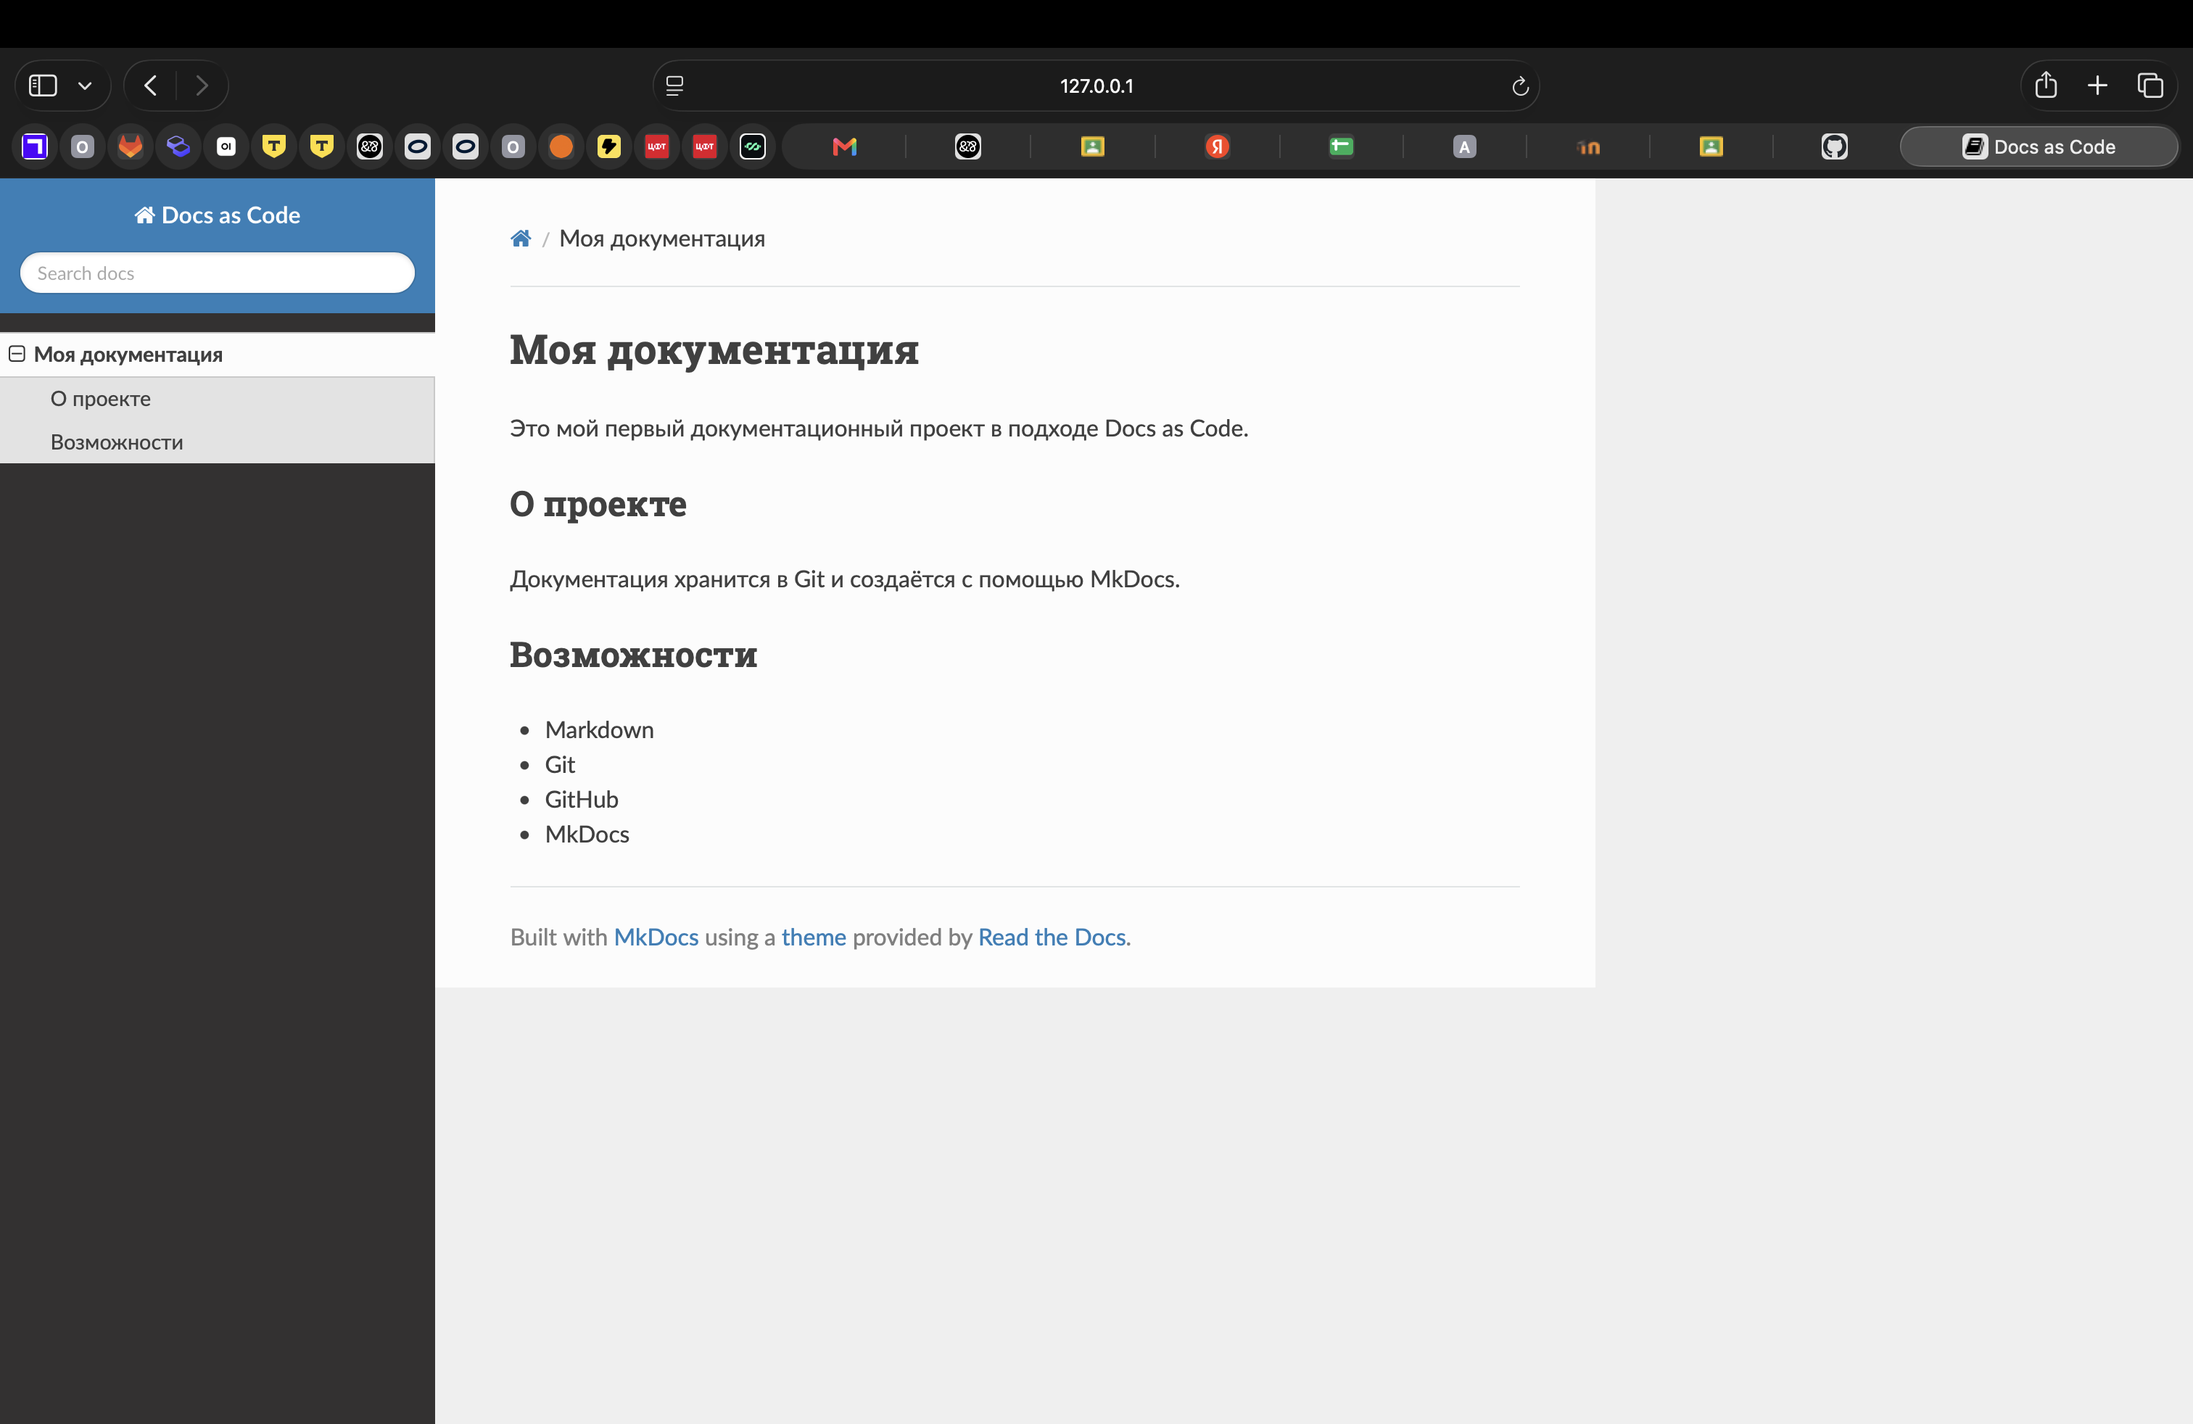
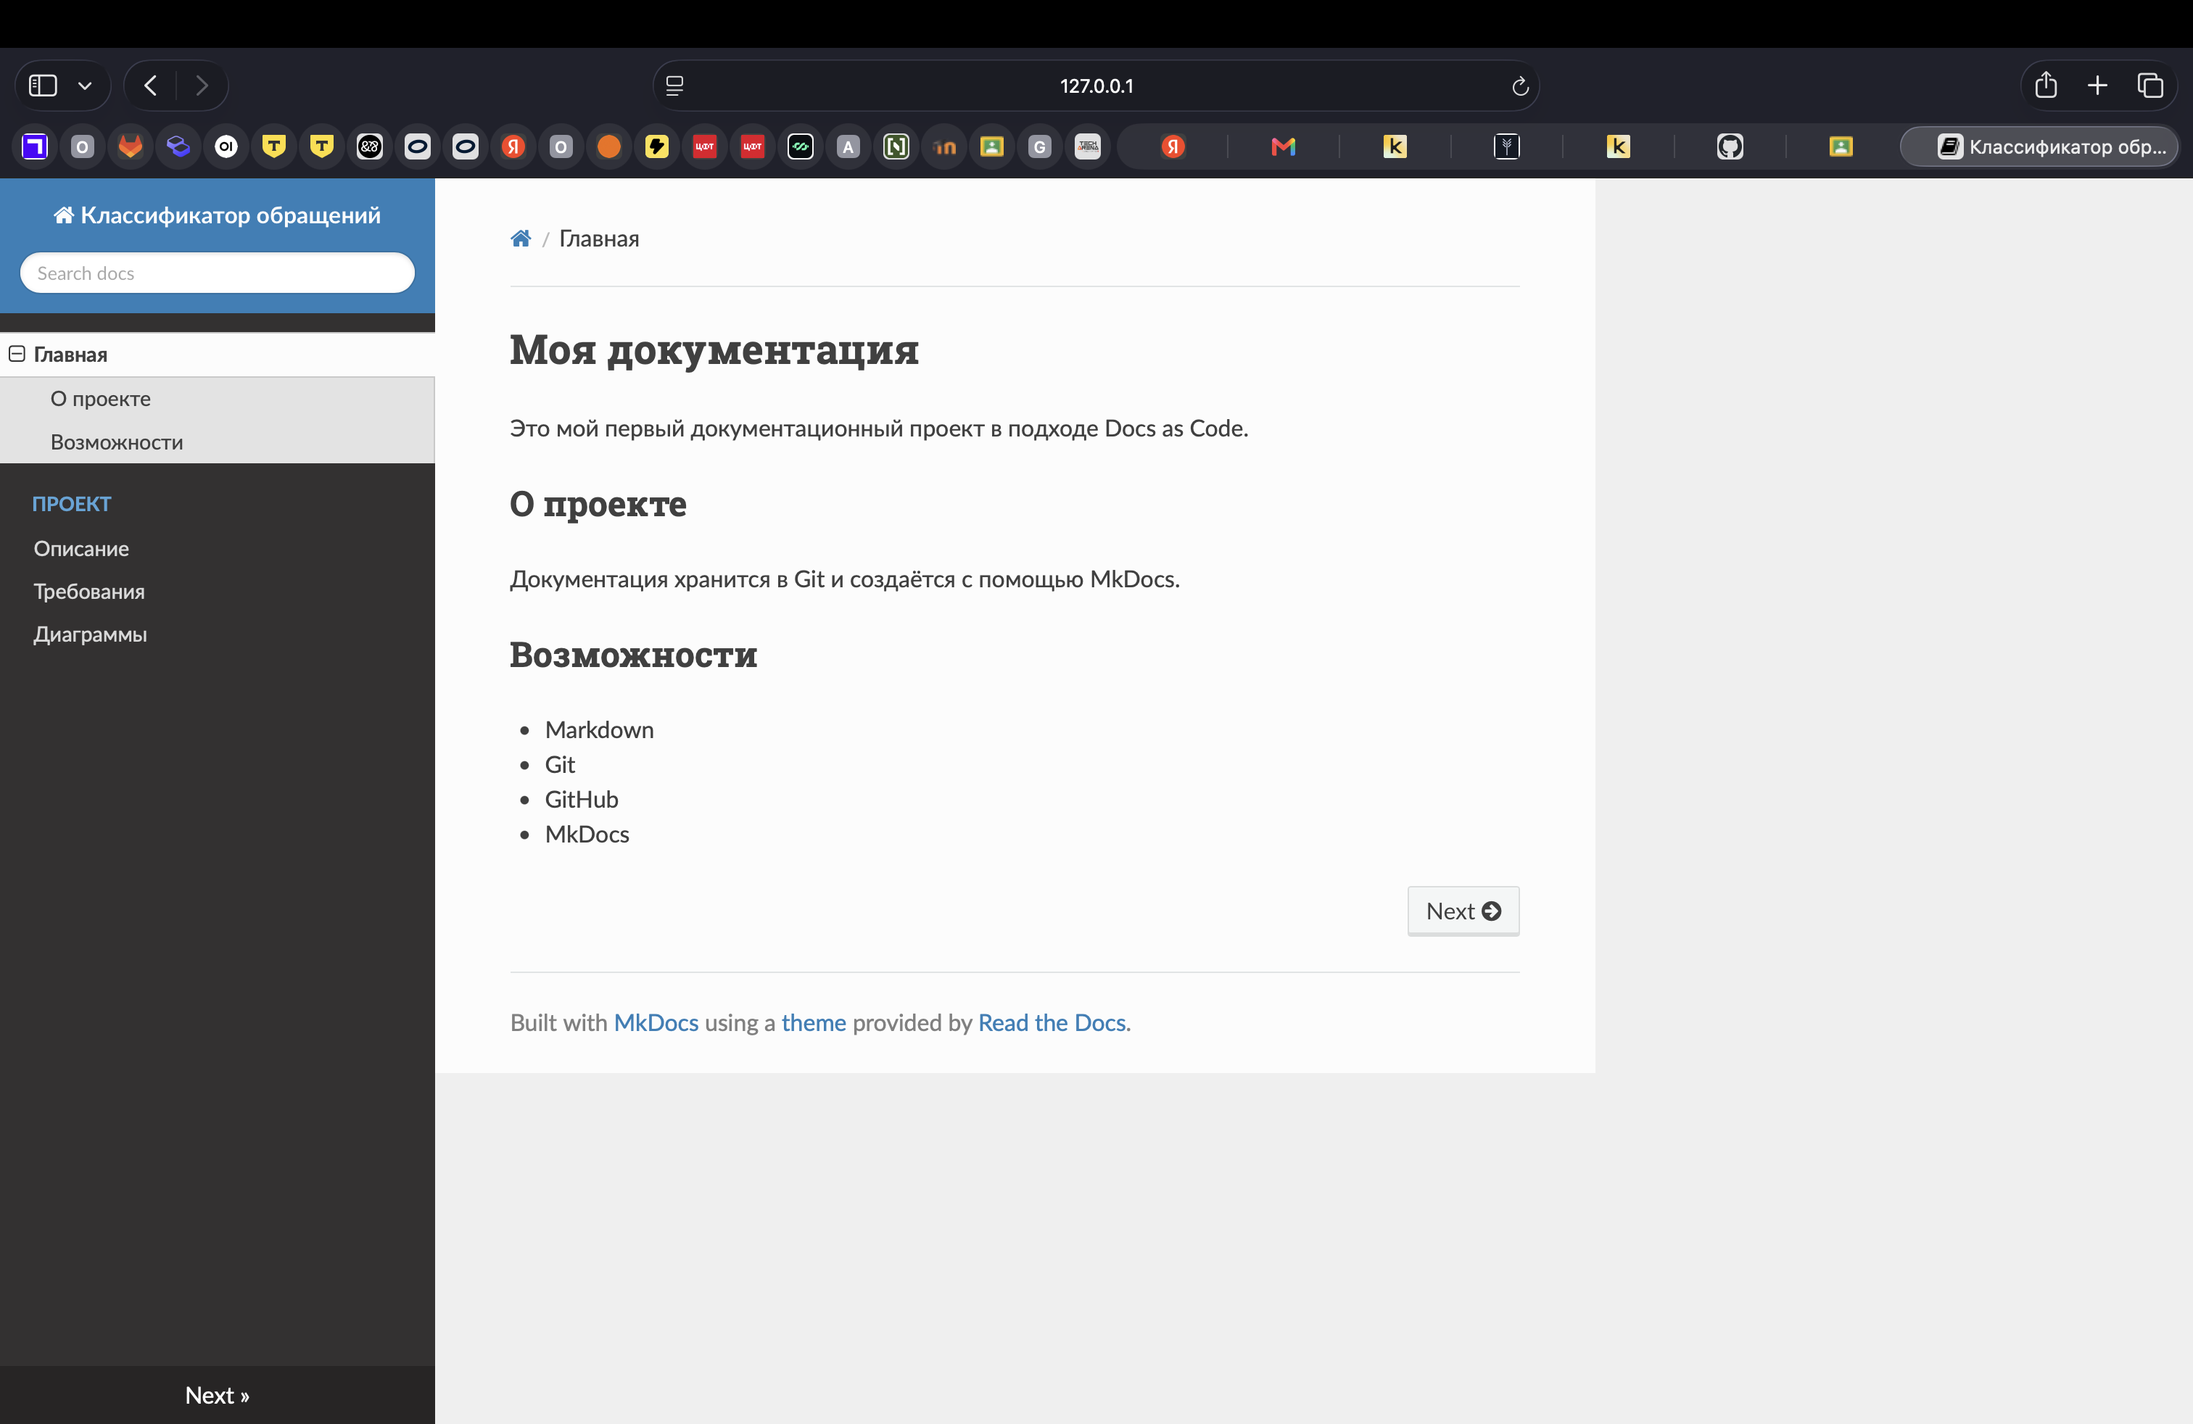
Add project requirements and diagrams

diff --git a/docs/project/requirements.md b/docs/project/requirements.md
@@ -1,0 +1,53 @@
+### US-01. Отправка обращения
+
+Как заявитель, я хочу отправить текст обращения в поддержку, чтобы получить помощь по своей проблеме.
+
+Критерии приёмки:
+
+- система принимает непустой текст обращения.
+- после отправки система сохраняет обращение и показывает его номер.
+- если текст не заполнен, система сообщает, что нужно добавить описание проблемы.
+
+### US-02. Автоматическая классификация
+
+Как оператор поддержки, я хочу видеть предложенные категорией и группой специалистов для каждого нового обращения, чтобы быстрее передавать его нужной команде.
+
+Критерии приёмки:
+
+- после сохранения обращения система передаёт его текст классификатору.
+- если результат достаточно уверенный, система сохраняет категорию и назначает соответствующего специалиста.
+- оператор может увидеть категорию, назначенную группу и статус маршрутизации.
+
+### US-03. Ручная проверка результата
+
+Как оператор поддержки, я хочу проверить и исправить категорию обращения, если результат агента неоднозначен или неверен, чтобы обращение попало к подходящим специалистам.
+
+Критерии приёмки:
+
+- если модель не может уверенно определить категорию, обращение направляется в очередь ручной классификации.
+- оператор может выбрать другую категорию и соответствующую группу специалистов.
+- после подтверждения система сохраняет изменения и показывает актуальную группу обращения.
+
+### UC-01. Классификация и маршрутизация обращения
+
+**Актор:** заявитель.  
+**Вторичный актор:** оператор поддержки.  
+**Цель:** определить категорию обращения и передать его нужной группе специалистов.  
+**Предусловие:** заявитель заполнил текст обращения.
+
+**Основной сценарий:**
+
+1. Заявитель отправляет обращение.
+2. Система проверяет текст и сохраняет обращение.
+3. Система передаёт текст классификатору.
+4. Классификатор возвращает категорию и оценку уверенности.
+5. Система определяет группу специалистов по категории и сохраняет назначение.
+6. Система показывает заявителю номер обращения, а оператору — категорию и назначенную группу.
+
+**Альтернативный сценарий:**
+
+1. Если текст пустой, система просит заявителя заполнить описание и не запускает классификацию.
+2. Если классификатор не может обработать текст или уверенность ниже установленного порога, система направляет обращение в очередь ручной классификации.
+3. Оператор выбирает категорию и группу, а система сохраняет результат и обновляет статус маршрутизации.
+
+**Результат:** обращение назначено группе специалистов либо ожидает ручной классификации оператором.

diff --git a/docs/project/overview.md b/docs/project/overview.md
@@ -1,0 +1,27 @@
+# Классификатор обращений в техническую поддержку
+
+## Описание
+
+Система получает текст обращения и определяет его категорию с помощью ИИ-агента для направления соответствующей группе специалистов. Это помогает быстрее передавать вопрос нужной команде и сокращает ручную сортировку заявок.
+
+## Пользователи
+
+- **Пользователь** — отправляет обращение и получает ответ.
+- **Оператор поддержки** — проверяет категорию и группу, при необходимости исправляет результат.
+- **Специалист** — получает обращения и помогает пользователю решить вопрос.
+
+## Основные функции
+
+- приём и сохранение текста обращения.
+- автоматическое определение категории и группы специалистов.
+- передача неоднозначных обращений оператору для ручной обработки.
+- просмотр и корректировка результата классификации оператором.
+
+## Комплект документации
+
+1. **Описание проекта** — для команды и заинтересованных лиц, чтобы понимать назначение системы и его пользователей.
+2. **Требования** — для разработчиков и тестировщиков, чтобы согласовать ожидаемое поведение и критерии проверки.
+3. **Архитектура системы** — для разработчиков и сопровождения, чтобы видеть компоненты сервиса и их взаимодействие.
+4. **Документация API** — для разработчиков интеграций, чтобы отправлять обращения и получать результаты классификации.
+5. **Документация ИИ-агента** — для ML-команды и операторов, чтобы понимать категории, входные данные, ограничения и правила передачи сомнительных результатов на ручную проверку.
+6. **Руководство пользователя** — для заявителей и операторов, чтобы создавать обращения, проверять и корректировать их маршрутизацию.

diff --git a/docs/project/diagrams.md b/docs/project/diagrams.md
@@ -1,0 +1,72 @@
+# Диаграммы
+
+## Диаграмма последовательности
+
+Показан основной поток обработки обращения и альтернативный путь для результата с низкой уверенностью.
+
+<div class="mermaid">
+
+sequenceDiagram
+actor Requester as Заявитель
+participant System as Система поддержки
+participant Model as ML-классификатор
+participant Operator as Оператор
+participant Team as Группа специалистов
+
+Requester->>System: Отправить текст обращения
+System->>System: Проверить и сохранить обращение
+System->>Model: Передать текст обращения
+Model-->>System: Вернуть категорию и уверенность
+alt Уверенность достаточная
+    System->>System: Определить группу по категории
+    System->>Team: Назначить обращение
+    System-->>Requester: Показать номер и статус
+else Низкая уверенность или ошибка обработки
+    System->>Operator: Передать в очередь ручной классификации
+    Operator->>System: Выбрать категорию и группу
+    System->>Team: Назначить обращение
+    System-->>Requester: Показать номер и статус проверки
+end
+
+</div>
+
+## Диаграмма классов
+
+<div class="mermaid">
+
+classDiagram
+class Requester {
++int id
++string contact
+}
+
+class SupportRequest {
++int id
++string text
++string status
++datetime createdAt
+}
+
+class ClassificationResult {
++string category
++float confidence
++bool requiresReview
+}
+
+class SupportGroup {
++int id
++string name
+}
+
+class SupportOperator {
++int id
++string name
++reviewClassification()
+}
+
+Requester "1" --> "*" SupportRequest : creates
+SupportRequest "1" --> "0..1" ClassificationResult : receives
+ClassificationResult "*" --> "0..1" SupportGroup : routes to
+SupportOperator "1" --> "*" SupportRequest : reviews
+
+</div>

diff --git a/README.md b/README.md
@@ -1,5 +1,5 @@
-# Docs as Code
+# Классификатор обращений в техническую поддержку
 
-Практическая работа по настройке среды Docs as Code.
+Документация проекта классификатора обращений в техническую поддержку создана в подходе Docs as Code с помощью MkDocs.
 
 Автор: Кравченко Егор
